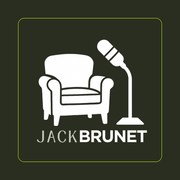
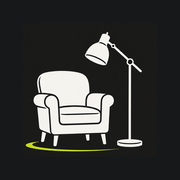
Partage : identité RHEMA partout et liens vers la page de l'app
- Les partages (cartes, versets, invitations, récompenses) renvoient vers
  jackbrunet.com/app au lieu de la racine du site.
- Nouveau nom « RHEMA – Bible & Prière » dans tous les textes de partage
  (fin de l'ancien « Jack Brunet : Foi & Prière »).
- Nouvelles icônes web (favicon + apple-touch) avec le logo RHEMA.
- Image Open Graph RHEMA (1200x630) pour les aperçus de liens
  (WhatsApp, iMessage…), page /app et site.

Claude-Session: https://claude.ai/code/session_01VYhLaCDRjKyMbGwH7SAqip

diff --git a/src/app/app/page.tsx b/src/app/app/page.tsx
@@ -3,10 +3,23 @@ import Link from "next/link";
 import { StoreBadges } from "@/components/app/StoreBadges";
 import { siteConfig } from "@/config/site";
 
+const APP_DESCRIPTION =
+  "Télécharge RHEMA – Bible & Prière : ton temps avec Jésus chaque jour. Méditation du jour, Bible, plans de lecture, mur de prière et musique d'adoration. Gratuite sur iPhone et Android.";
+
 export const metadata: Metadata = {
-  title: "L'application",
-  description:
-    "Télécharge l'application Jack Brunet : Foi & Prière — dévotionnel quotidien, Bible, plans de lecture, musique d'adoration et communauté de prière. Gratuite sur iPhone et Android.",
+  title: "RHEMA – Bible & Prière",
+  description: APP_DESCRIPTION,
+  openGraph: {
+    title: "RHEMA – Bible & Prière",
+    description: APP_DESCRIPTION,
+    images: [{ url: "/img/og-app.png", width: 1200, height: 630, alt: "RHEMA – Ton temps avec Jésus" }],
+  },
+  twitter: {
+    card: "summary_large_image",
+    title: "RHEMA – Bible & Prière",
+    description: APP_DESCRIPTION,
+    images: ["/img/og-app.png"],
+  },
 };
 
 const FEATURES = [

diff --git a/src/app/suppression-compte/page.tsx b/src/app/suppression-compte/page.tsx
@@ -5,7 +5,7 @@ import { siteConfig } from "@/config/site";
 export const metadata: Metadata = {
   title: "Supprimer mon compte",
   description:
-    "Comment supprimer votre compte de l'application Jack Brunet : Foi & Prière et les données associées.",
+    "Comment supprimer votre compte de l'application RHEMA – Bible & Prière et les données associées.",
 };
 
 export default function SuppressionComptePage() {
@@ -18,7 +18,7 @@ export default function SuppressionComptePage() {
             Supprimer mon <span className="text-gradient">compte</span>
           </>
         }
-        description="Application « Jack Brunet : Foi & Prière », procédure de suppression de compte et de données."
+        description="Application « RHEMA – Bible & Prière », procédure de suppression de compte et de données."
       />
 
       <section className="container-x py-12">

diff --git a/src/components/home/ViralCard.tsx b/src/components/home/ViralCard.tsx
@@ -192,7 +192,7 @@ export function ViralCard({ punchline, id }: { punchline: string; id?: string })
     setBusy(true);
     try {
       const blob = await buildImage();
-      if (blob) await shareImageBlob(blob, "jackbrunet-pensee.png", `${punchline}\n\njackbrunet.com`);
+      if (blob) await shareImageBlob(blob, "rhema-pensee.png", `${punchline}\n\nhttps://jackbrunet.com/app`);
     } catch {
       /* partage annulé */
     } finally {
@@ -204,7 +204,7 @@ export function ViralCard({ punchline, id }: { punchline: string; id?: string })
     setBusy(true);
     try {
       const blob = await buildImage();
-      if (blob) await saveImageBlob(blob, "jackbrunet-pensee.png", `${punchline}\n\njackbrunet.com`);
+      if (blob) await saveImageBlob(blob, "rhema-pensee.png", `${punchline}\n\nhttps://jackbrunet.com/app`);
     } finally {
       setBusy(false);
     }

diff --git a/src/lib/rewards.ts b/src/lib/rewards.ts
@@ -99,13 +99,13 @@ export function markShared() {
 
 /** Partage l'application (partage natif si dispo, sinon copie le lien). */
 export async function shareApp(url: string): Promise<boolean> {
-  const text = "Découvre l'application Jack Brunet: Foi & Prière";
+  const text = "Découvre l'application RHEMA – Bible & Prière";
   try {
     const nav = navigator as Navigator & {
       share?: (data: { title?: string; text?: string; url?: string }) => Promise<void>;
     };
     if (typeof nav.share === "function") {
-      await nav.share({ title: "Jack Brunet: Foi & Prière", text, url });
+      await nav.share({ title: "RHEMA – Bible & Prière", text, url });
       markShared();
       return true;
     }

diff --git a/src/components/ui/ShareButtons.tsx b/src/components/ui/ShareButtons.tsx
@@ -5,7 +5,8 @@ import { shareText, shareImageBlob, saveImageBlob } from "@/lib/share";
 import { buildVerseImage } from "@/lib/verse-image";
 import { openWhatsApp } from "@/lib/external";
 
-const SITE_URL = "https://jackbrunet.com";
+/** Par défaut, tout partage renvoie vers la page de l'application. */
+const SITE_URL = "https://jackbrunet.com/app";
 
 /**
  * Boutons de partage réutilisables.
@@ -39,7 +40,7 @@ export function ShareButtons({
     }
   }
 
-  const fileName = image?.filename?? "jackbrunet-verset.png";
+  const fileName = image?.filename?? "rhema-verset.png";
   async function shareImage() {
     if (!image) return;
     setBusy(true);

diff --git a/src/lib/verse-image.ts b/src/lib/verse-image.ts
@@ -89,7 +89,7 @@ export async function buildVerseImage(opts: {
   ctx.fillStyle = "rgba(243,243,237,0.6)";
   ctx.font = '400 30px Arial, sans-serif';
   ctx.textAlign = "right";
-  ctx.fillText("jackbrunet.com", W - 100, H - 110);
+  ctx.fillText("jackbrunet.com/app", W - 100, H - 110);
   ctx.textAlign = "left";
 
   return new Promise((resolve) => canvas.toBlob((b) => resolve(b), "image/png"));

diff --git a/src/components/community/ProfileView.tsx b/src/components/community/ProfileView.tsx
@@ -144,8 +144,8 @@ function Profile({
       };
       if (nav.share) {
         await nav.share({
-          title: "Mon profil, Jack Brunet",
-          text: "Rejoins-moi sur l'application Jack Brunet: Foi & Prière",
+          title: "Mon profil RHEMA",
+          text: "Rejoins-moi sur l'application RHEMA – Bible & Prière",
           url,
         });
       } else {

diff --git a/src/app/layout.tsx b/src/app/layout.tsx
@@ -50,6 +50,7 @@ export const metadata: Metadata = {
     siteName: siteConfig.name,
     title: `${siteConfig.name}, ${siteConfig.tagline}`,
     description: siteConfig.description,
+    images: [{ url: "/img/og-app.png", width: 1200, height: 630, alt: "RHEMA – Ton temps avec Jésus" }],
   },
   // Prépare l'usage « installable » (PWA / future app)
   appleWebApp: {

diff --git a/src/components/app/Rewards.tsx b/src/components/app/Rewards.tsx
@@ -69,7 +69,7 @@ export function Rewards() {
   }, [eng.ready, eng.best, shared]);
 
   async function onShare() {
-    const ok = await shareApp(siteConfig.url);
+    const ok = await shareApp(`${siteConfig.url}/app`);
     if (ok) {
       setShared(true);
       setCopied(true);
